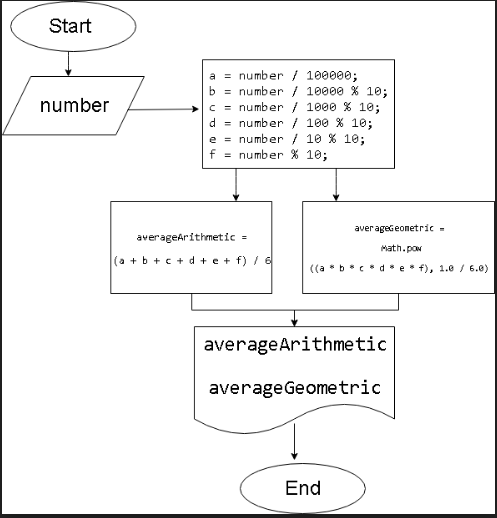
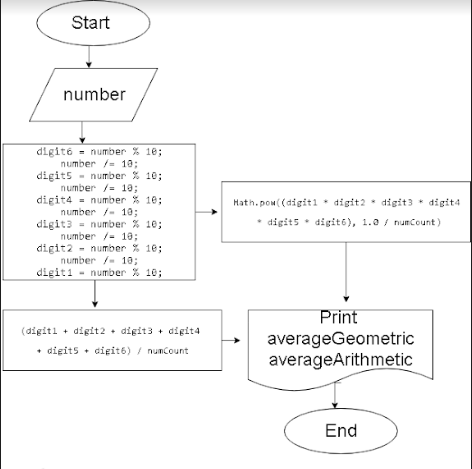
change scheme

diff --git a/Lesson04/Task04/AverageValueLogic.java b/Lesson04/Task04/AverageValueLogic.java
@@ -1,0 +1,38 @@
+public class AverageValueLogic {
+    private static final double numCount = 6.0;
+
+    public static double countAvarageArithmetic(int number) {
+        int digit6 = number % 10; //6th number
+        number /= 10;
+        int digit5 = number % 10; //5th number
+        number /= 10;
+        int digit4 = number % 10; //4th numbe
+        number /= 10;
+        int digit3 = number % 10; //third number
+        number /= 10;
+        int digit2 = number % 10; //second number
+        number /= 10;
+        int digit1 = number % 10; //first number
+
+        return (digit1 + digit2 + digit3 + digit4 + digit5 + digit6) / numCount;
+    }
+
+    public static double countAvarageGeometric(int number) {
+        int digit6 = number % 10; //6th number
+        number /= 10;
+        int digit5 = number % 10; //5th number
+        number /= 10;
+        int digit4 = number % 10; //4th numbe
+        number /= 10;
+        int digit3 = number % 10; //third number
+        number /= 10;
+        int digit2 = number % 10; //second number
+        number /= 10;
+        int digit1 = number % 10; //first number
+
+        return Math.pow((digit1 * digit2 * digit3 * digit4 * digit5 * digit6), 1.0 / numCount);
+
+    }
+}
+
+

diff --git a/Lesson04/Task04/AverageValue.java b/Lesson04/Task04/AverageValue.java
@@ -1,0 +1,10 @@
+public class AverageValue {
+    public static void main(String[] args) {
+        int number = 345678;
+        double averageArithmetic = AverageValueLogic.countAvarageArithmetic(number);
+        Printer.print(averageArithmetic, "arithmetic", number);
+        double averageGeometric = AverageValueLogic.countAvarageGeometric(number);
+        Printer.print(averageGeometric, "arithmetic", number);
+
+    }
+}

diff --git a/Lesson04/Task04/Printer.java b/Lesson04/Task04/Printer.java
@@ -1,5 +1,5 @@
 public class Printer {
-    public static void print(long orderedNumber, long number) {
-        System.out.printf("\nReverse order of number %d is : %d", number, orderedNumber);
+    public static void print(double average, String s, int number) {
+        System.out.printf("\nAverage %s of number %d is : %.2f", s, number, average);
     }
 }

diff --git a/Lesson04/Task01/CheckingDifferenceLogic.java b/Lesson04/Task01/CheckingDifferenceLogic.java
@@ -4,7 +4,7 @@ class ChekingDifferenceLogic {
     }
 
     public static boolean checkDifference(double a, double b, double c) {
-        return a != b && b != c && a != c;
+        return c
     }
 }
 
